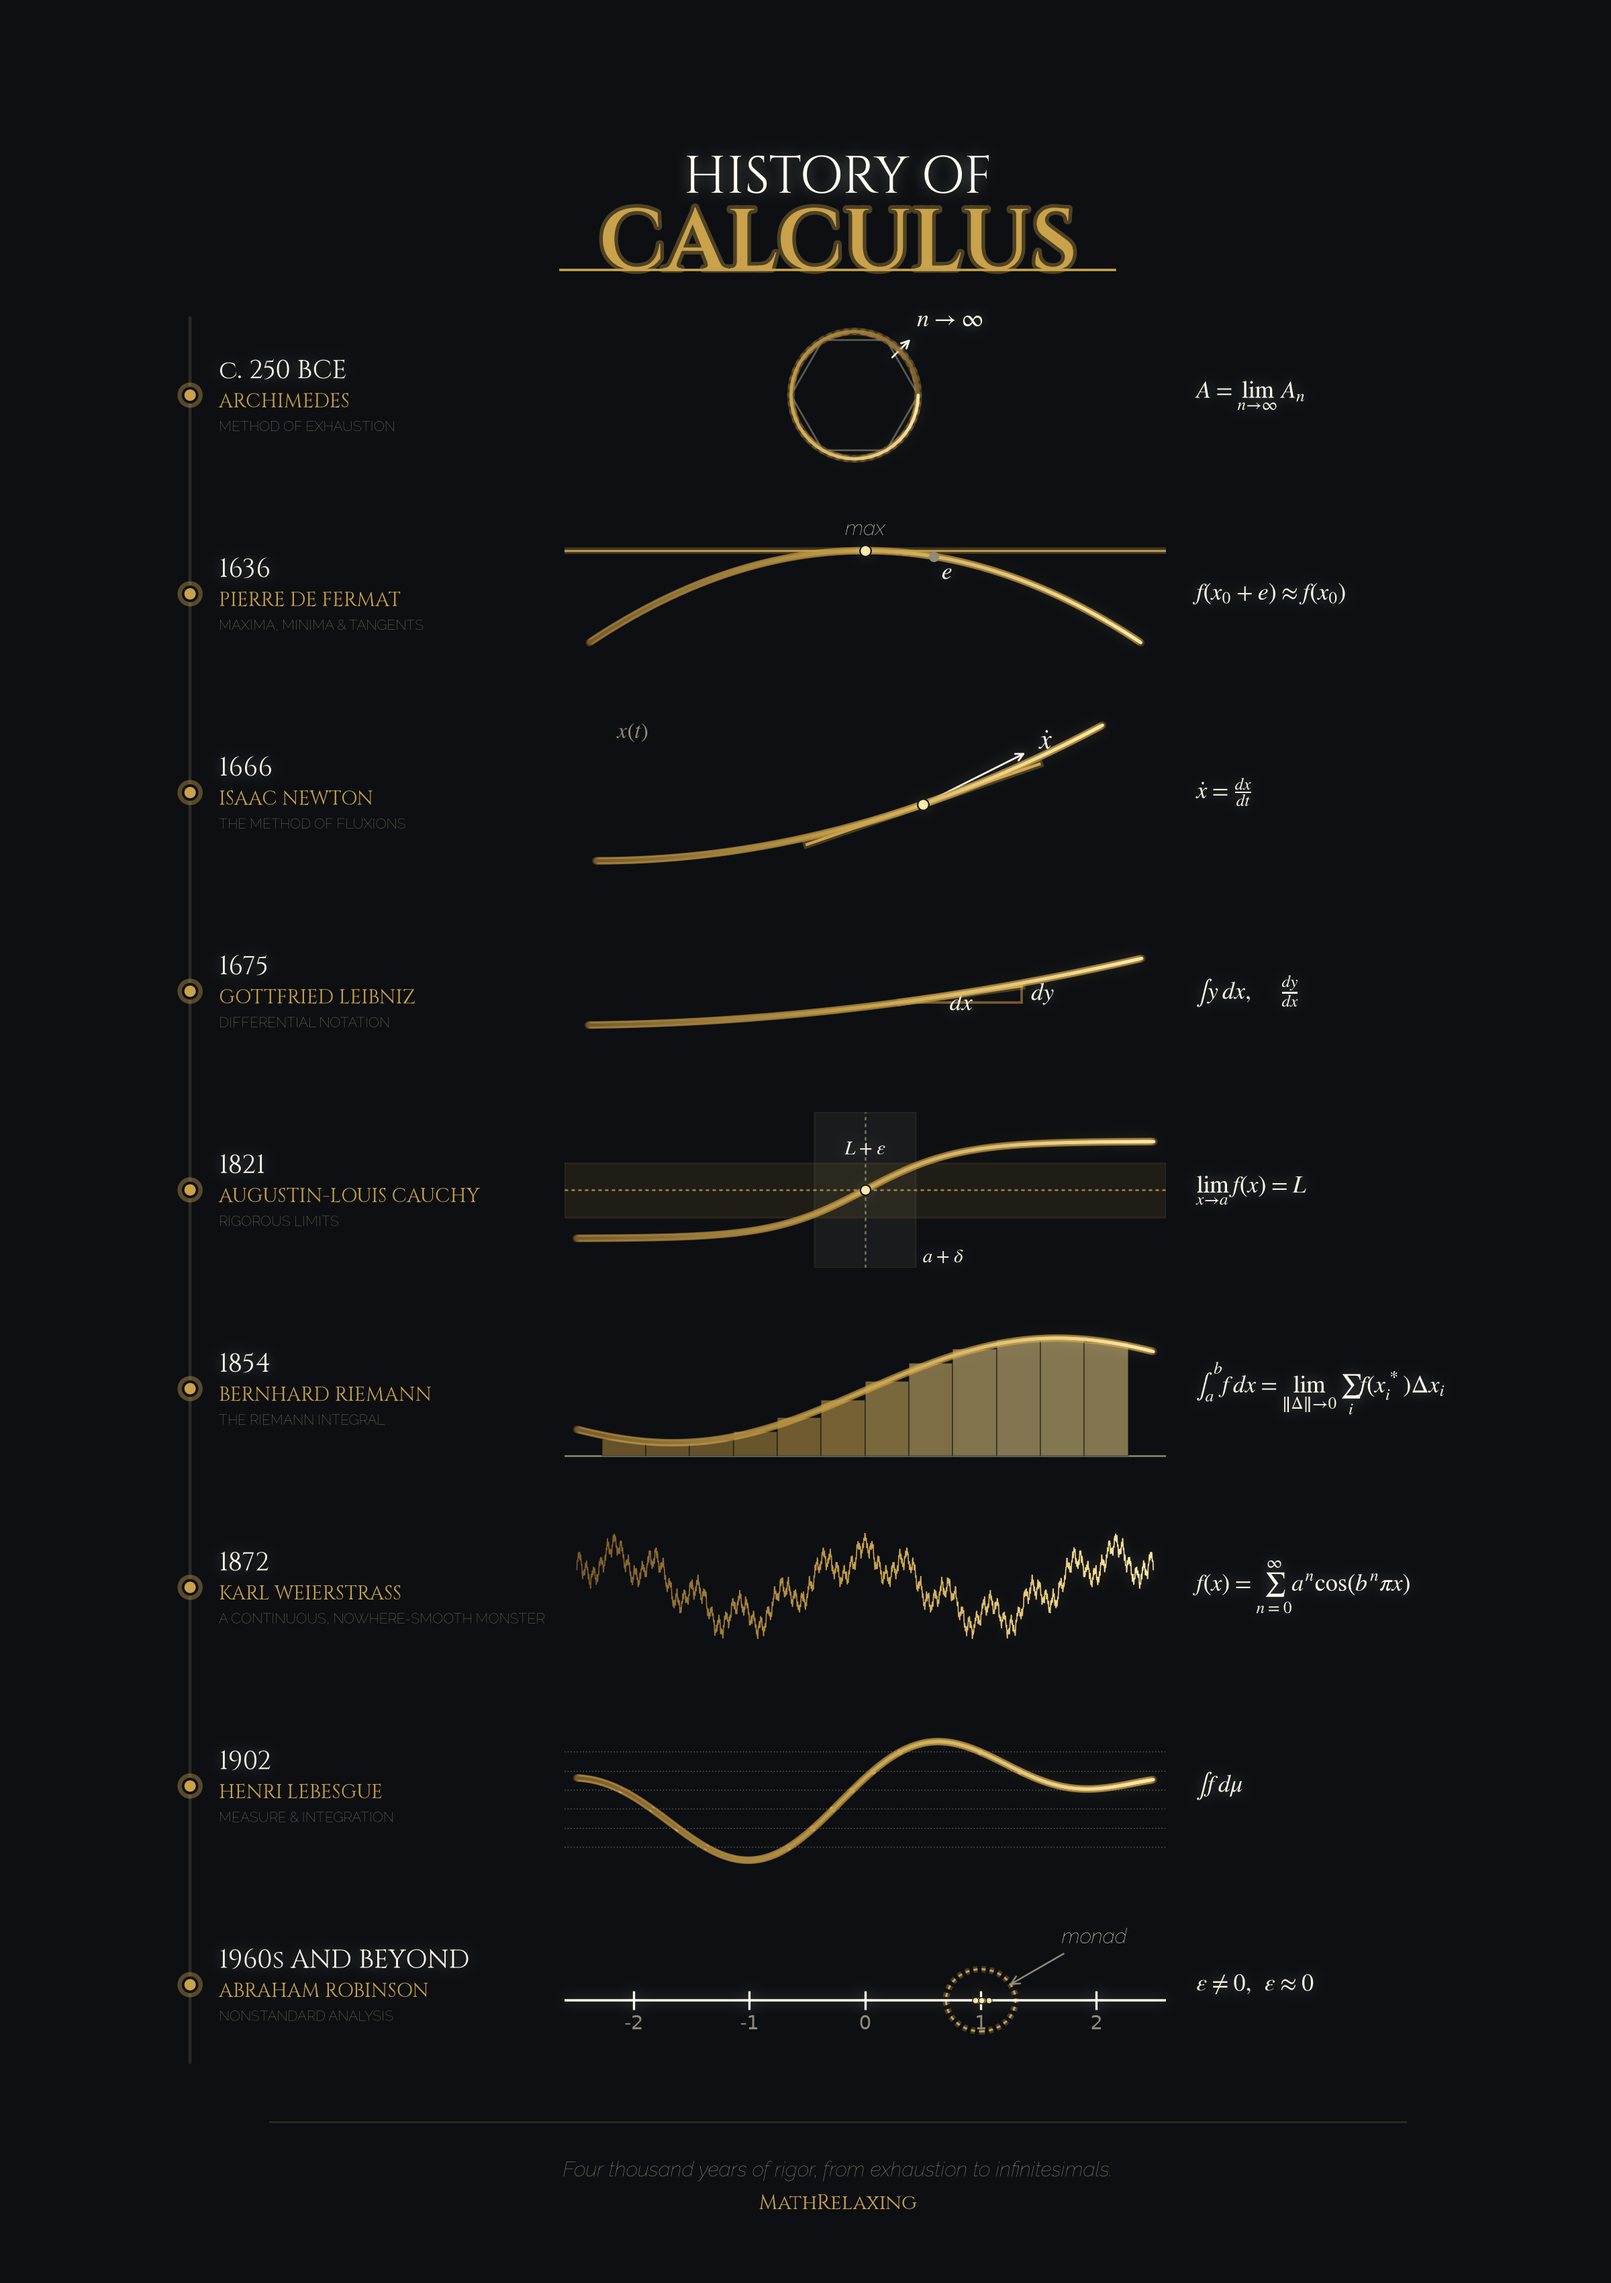
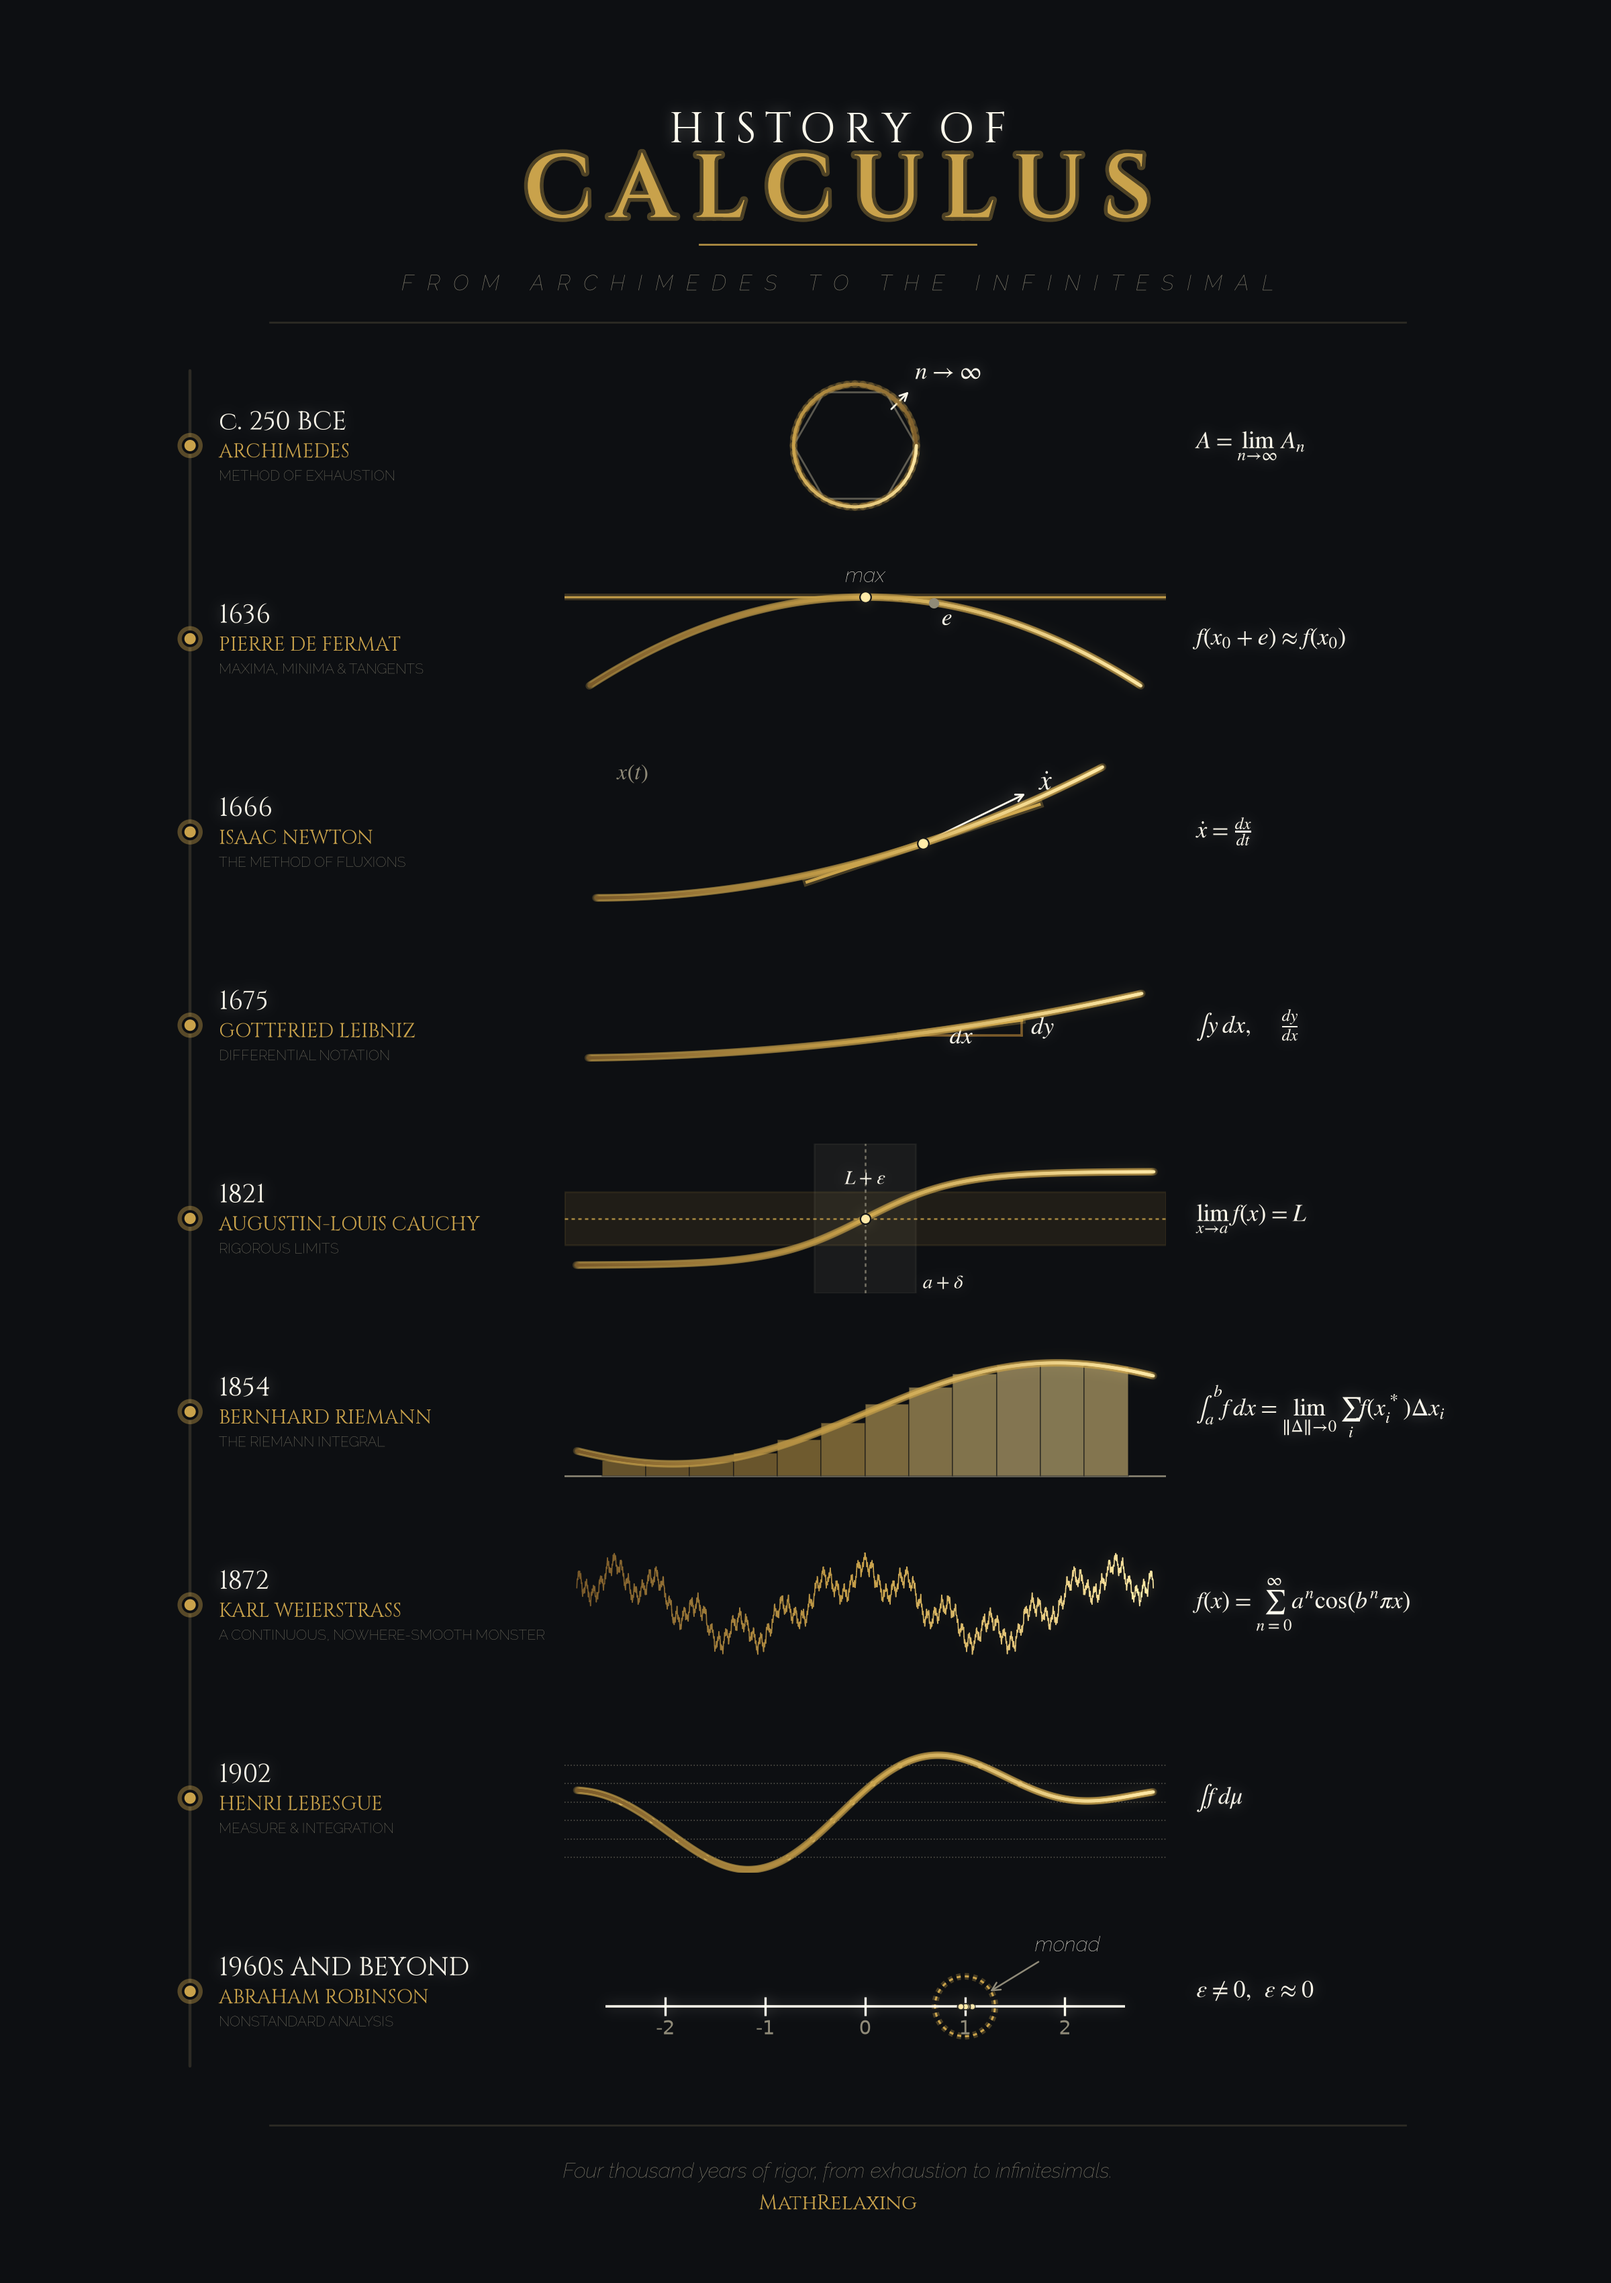
Polish History of Calculus poster title + fix squashed monad circle
Title: letter-tracked "HISTORY OF CALCULUS" with a thin gold rule and
an italic tracked subtitle ("From Archimedes to the Infinitesimal"),
replacing the plainer two-line title from v2 -- more in line with the
book cover's title treatment.

Robinson diagram: the monad circle was rendered without an equal
aspect ratio, so it came out flattened against the wide/short axes box.
Added ax.set_aspect("equal").

Claude-Session: https://claude.ai/code/session_01H2HkvfGi1sYBsuUMaK5vgt

diff --git a/generate_history_poster.py b/generate_history_poster.py
@@ -52,6 +52,11 @@ GLOW = lambda lw=1.8, c=GOLD, a=0.30, extra=2.4: [
     pe.Stroke(linewidth=lw + extra, foreground=c, alpha=a), pe.Normal()]
 
 
+def tracked(s, thin=1):
+    """Insert thin-space letter tracking for a more elegant, poster-style caps line."""
+    return (" " * thin).join(s)
+
+
 def grad_line(ax, x, y, cmap=GOLD_CMAP, lw=1.9, alpha=1.0, zorder=4, glow=True):
     pts = np.array([x, y]).T.reshape(-1, 1, 2)
     segs = np.concatenate([pts[:-1], pts[1:]], axis=1)
@@ -191,7 +196,7 @@ def draw_robinson(ax):
     ax.annotate("monad", xy=(1.22, 0.13), xytext=(1.7, 0.55),
                 arrowprops=dict(arrowstyle="->", color=SUB, lw=0.9),
                 fontsize=11, color=CREAM, fontproperties=RALEWAY_I)
-    ax.set_xlim(-2.6, 2.6); ax.set_ylim(-0.6, 0.9); ax.axis("off")
+    ax.set_xlim(-2.6, 2.6); ax.set_ylim(-0.6, 0.9); ax.set_aspect("equal"); ax.axis("off")
 
 
 MILESTONES = [
@@ -222,18 +227,21 @@ def build():
     fig.patch.set_facecolor(DARK)
     gs = fig.add_gridspec(
         nrows=n + 2, ncols=3,
-        height_ratios=[1.25] + [1.0] * n + [0.7],
+        height_ratios=[1.65] + [1.0] * n + [0.7],
         width_ratios=[0.30, 0.44, 0.26],
         left=0.09, right=0.95, top=0.965, bottom=0.03,
         hspace=0.28, wspace=0.02,
     )
 
     ax_title = fig.add_subplot(gs[0, :]); ax_title.axis("off"); ax_title.set_facecolor(DARK)
-    ax_title.text(0.5, 0.50, "HISTORY OF", fontsize=28, color=CREAM, ha="center",
+    ax_title.text(0.5, 0.80, tracked("HISTORY OF", 1), fontsize=23, color=CREAM, ha="center",
                   va="center", fontproperties=CINZEL_R)
-    ax_title.text(0.5, 0.16, "CALCULUS", fontsize=46, color=GOLD, ha="center",
+    ax_title.text(0.5, 0.555, tracked("CALCULUS", 1), fontsize=48, color=GOLD, ha="center",
                   va="center", fontproperties=CINZEL, path_effects=GLOW(lw=0.5, a=0.35, extra=3.5))
-    ax_title.plot([0.30, 0.70], [0.02, 0.02], color=GOLD, lw=1.3, transform=ax_title.transAxes)
+    ax_title.plot([0.40, 0.60], [0.335, 0.335], color=GOLD, lw=1.0, alpha=0.85)
+    ax_title.text(0.5, 0.18, tracked("FROM ARCHIMEDES TO THE INFINITESIMAL", 1), fontsize=11.5,
+                  color=SUB, ha="center", va="center", fontproperties=RALEWAY_I)
+    ax_title.plot([0.09, 0.91], [0.02, 0.02], color=LINE, lw=1.0)
     ax_title.set_xlim(0, 1); ax_title.set_ylim(0, 1)
 
     for i, (year, name, label, eq, drawfn) in enumerate(MILESTONES):
